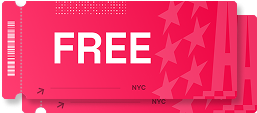
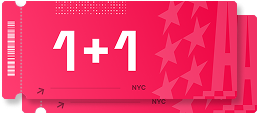
new headline + popup

Changed region(s): [[0.1868, 0.2655, 0.5914, 0.6372]]

diff --git a/src/pages/[locale]/accelerate-n/AccelerateNPage.js b/src/pages/[locale]/accelerate-n/AccelerateNPage.js
@@ -111,7 +111,7 @@ const FAQs = [
   {
     question: "Are travel and accommodation part of my ticket?",
     answer:
-      "Attendees are responsible for making their own travel and accommodation — but there are plenty of hotels in New York! The Solana Foundation has worked with multiple hotels in New York to offer discounted rates on hotels during Ship or Die.",
+      'Attendees are responsible for making their own travel and accommodation — but there are plenty of hotels in New York! The Solana Foundation <a href="https://solanafoundation.notion.site/Accelerate-Travel-1c1d36dad52d801ea92ad3e495c1a36a" target="_blank" rel="noopener noreferrer">has worked with</a> multiple hotels in New York to offer discounted rates on hotels during Ship or Die.',
   },
   {
     question: "I can no longer attend. Can I get a refund?",
@@ -225,7 +225,7 @@ export default function AccelerateNPage() {
   }, [stickyVisible]);
 
   // These could be moved to translation files in a real implementation
-  const heroTitle = "A gathering of America&apos;s next builders.";
+  const heroTitle = "Tech, Finance and Policy meet crypto";
   const heroDescription =
     "Accelerate is a high-conviction summit for people building the next chapter of America. From AI to crypto, defense to finance—if you&apos;re not in the room, you&apos;re already behind.";
 
@@ -338,11 +338,7 @@ export default function AccelerateNPage() {
               />
             </div>
 
-            <h1>
-              A gathering
-              <br /> of America&apos;s
-              <br /> next builders.
-            </h1>
+            <h1>Tech, Finance and Policy meet crypto</h1>
             <p className={styles.heroDescription}>
               Accelerate is a conference for builders shaping crypto&apos;s next
               chapter in America. Crypto is transforming tech, policy, and
@@ -618,14 +614,13 @@ export default function AccelerateNPage() {
                 </div>
               </div>
               <div className={styles.freeTicketText}>
-                <h3 className={styles.freeTicketTitle}>FREE TICKET?</h3>
+                <h3 className={styles.freeTicketTitle}>BOGO</h3>
                 <h2 className={styles.freeTicketHeadline}>
-                  We&apos;re refunding random tickets daily
+                  Buy 1 Ticket, Get 1 Free
                 </h2>
                 <p className={styles.freeTicketDescription}>
-                  You could attend Accelerate for free as we&apos;re refunding
-                  random tickets every single day. To enter just purchase a
-                  ticket
+                  Purchase a ticket and receive a second, so you can bring a
+                  fellow builder, founder, or friend.
                 </p>
                 <Link
                   href="/accelerate-n/tickets"
